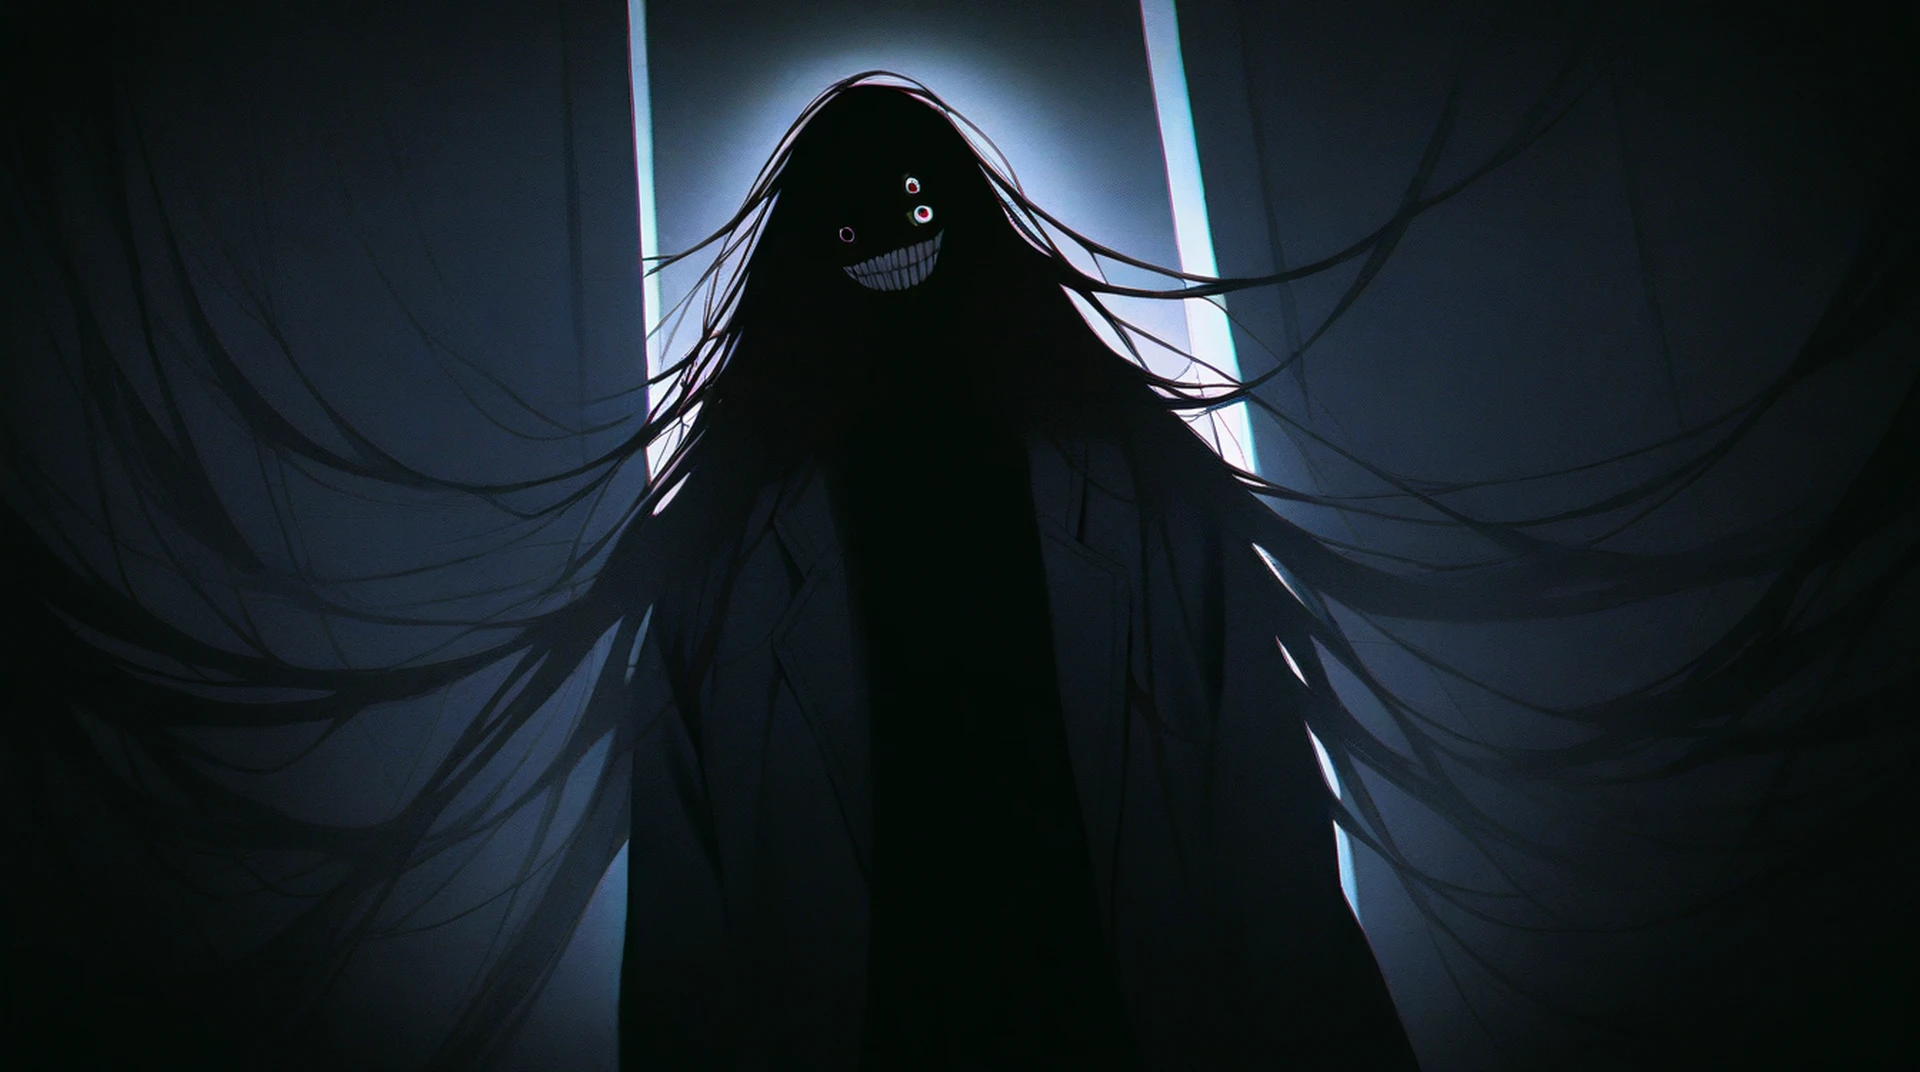
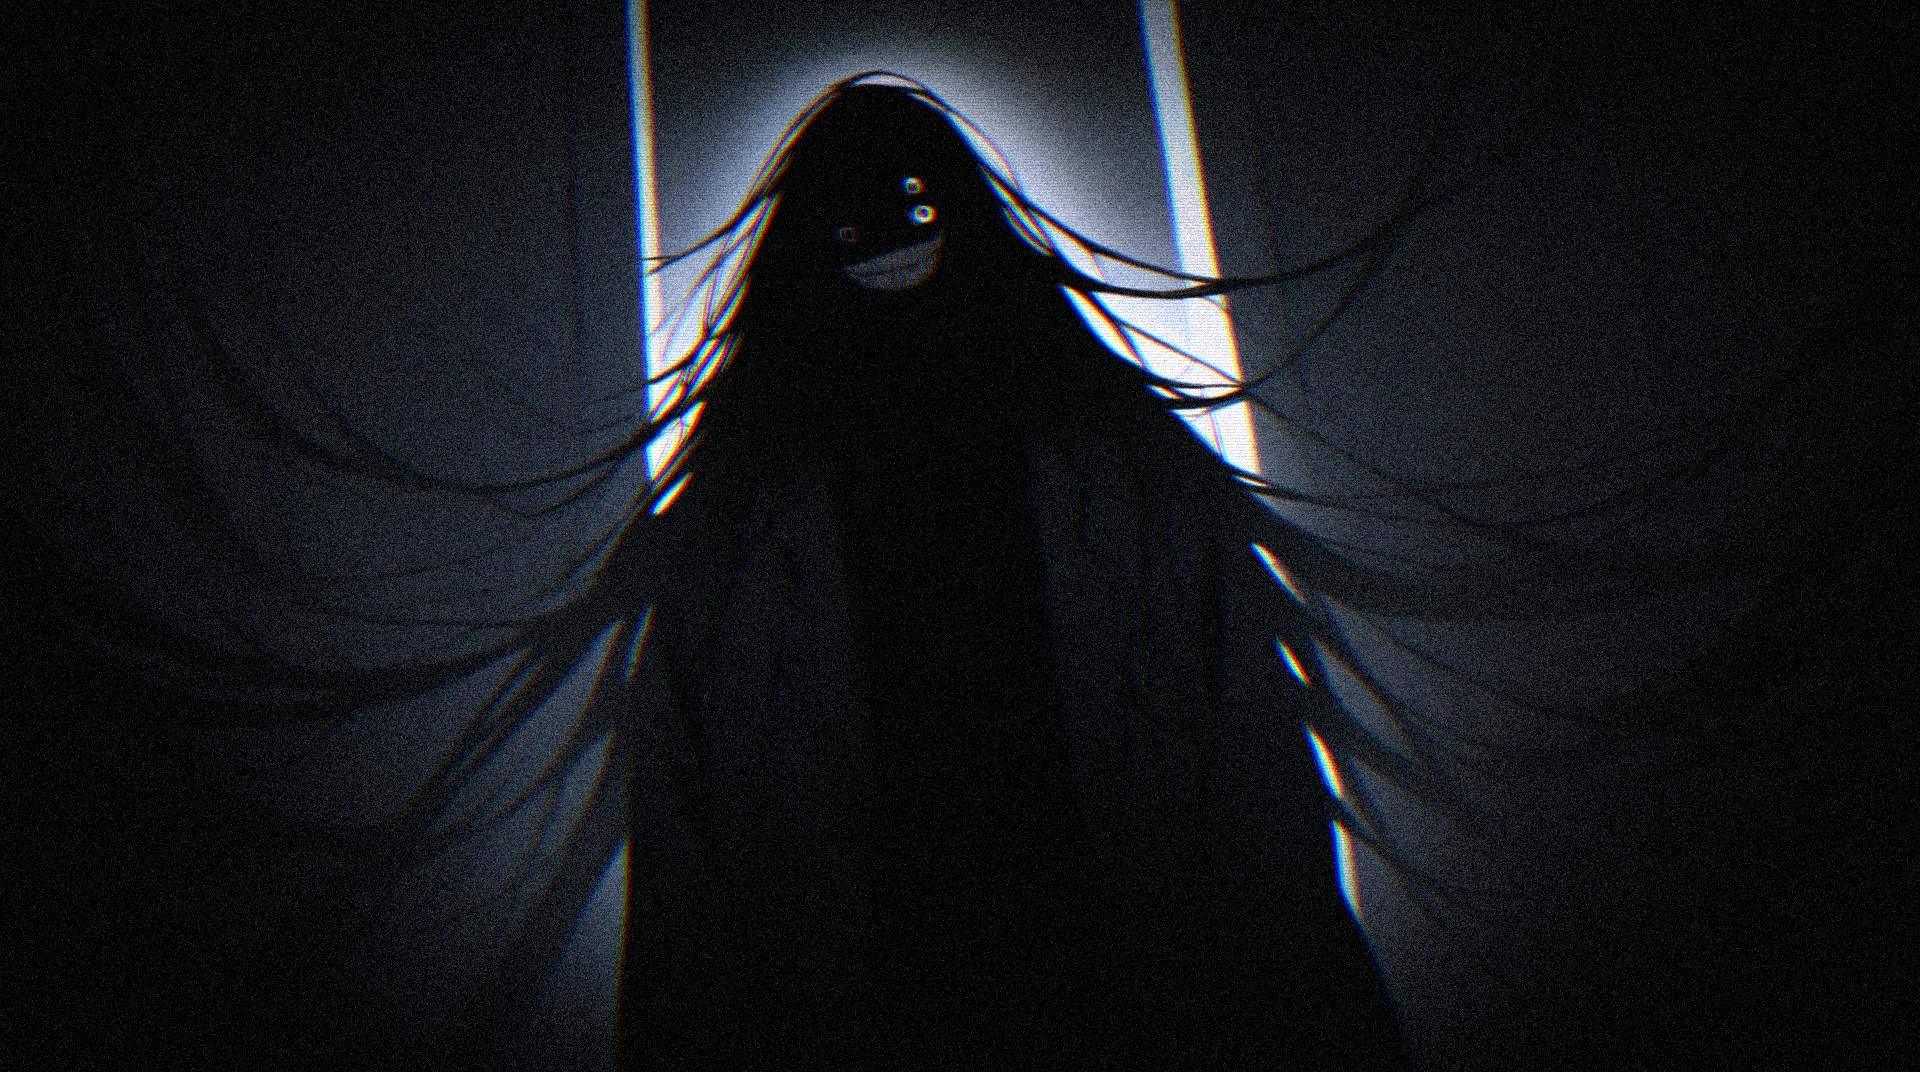
2.3.0: player-controlled turn-around scare, teacher horror CGs, analog-horror look

Changed region(s): [[0.0312, 0.0, 0.9062, 1.0]]

diff --git a/src/meta.js b/src/meta.js
@@ -150,6 +150,58 @@ export class Meta {
     el.remove();
   }
 
+  /**
+   * Turn around. The player controls the camera (drag / arrows / wheel) and has to choose to look behind them.
+   * The longer they wait, the faster the heartbeat. Once they turn, there is a short, terrible pause, then the scare.
+   * With "graphic horror off" it skips straight to a blackout.
+   */
+  async lookBehind(frontId, backId) {
+    const audio = this.game.audio;
+    if (!this.goreOn) { audio.sfx("static"); await this.blackout(500); return; }
+    const root = document.createElement("div");
+    root.className = "behind";
+    root.innerHTML = `<div class="behind-strip"><div style="background-image:url(assets/cg/${frontId}.webp)"></div><div style="background-image:url(assets/cg/${backId}.webp)"></div></div><div class="behind-hint">‹ drag, or use ← → ›</div>`;
+    this.fx.appendChild(root);
+    const strip = root.firstElementChild, hint = root.lastElementChild;
+    // The player turns the camera themselves: drag, arrow keys / A D, or the wheel. Nothing turns it for them.
+    let pan = 0, vel = 0, dragging = false, lastX = 0, still = 0;
+    const keys = new Set();
+    const down = e => { dragging = true; lastX = e.clientX; };
+    const up = () => { dragging = false; };
+    const move = e => { if (!dragging) return; pan = Math.max(0, Math.min(1, pan - (e.clientX - lastX) / innerWidth * 1.4)); lastX = e.clientX; };
+    const wheel = e => { pan = Math.max(0, Math.min(1, pan + e.deltaY / 1400)); };
+    const kd = e => keys.add(e.key.toLowerCase()), ku = e => keys.delete(e.key.toLowerCase());
+    root.addEventListener("pointerdown", down); addEventListener("pointerup", up); addEventListener("pointermove", move);
+    addEventListener("wheel", wheel, { passive: true }); addEventListener("keydown", kd); addEventListener("keyup", ku);
+    const t0 = performance.now(); let beat = 0, last = t0;
+    await new Promise(resolve => {
+      const tick = now => {
+        const dt = Math.min(50, now - last); last = now;
+        const t = now - t0, dread = Math.min(1, t / 40000);
+        if (keys.has("arrowright") || keys.has("d")) pan = Math.min(1, pan + dt / 1800);
+        if (keys.has("arrowleft") || keys.has("a")) pan = Math.max(0, pan - dt / 1800);
+        strip.style.transform = `translateX(${-pan * 50}%)`;
+        hint.style.opacity = String(Math.max(0, 0.55 - pan * 1.4) * (0.4 + 0.6 * Math.abs(Math.sin(t / 900))));
+        root.style.filter = `brightness(${1 - 0.3 * pan}) contrast(${1 + 0.4 * dread})`;
+        if (t - beat > 1400 - 800 * Math.max(dread, pan * 0.8)) { beat = t; audio.sfx("heartbeat"); if (pan > 0.4) this.shake(110); }
+        // fully turned: a held, silent beat, then it's there
+        if (pan > 0.97) { still += dt; if (still > 1100) return resolve(); } else still = 0;
+        requestAnimationFrame(tick);
+      };
+      requestAnimationFrame(tick);
+    });
+    root.removeEventListener("pointerdown", down); removeEventListener("pointerup", up); removeEventListener("pointermove", move);
+    removeEventListener("wheel", wheel); removeEventListener("keydown", kd); removeEventListener("keyup", ku);
+    audio.sfx("scare");
+    root.classList.add("slam");
+    this.shake(1500);
+    if (this.native) this.native.shake(1200, 18).catch(() => {});
+    await sleep(1600);
+    root.classList.add("out");
+    await sleep(200);
+    root.remove();
+  }
+
   /** An image for a few frames. You're not sure you saw it. The script pretends you didn't. */
   async subliminal(id, ms = 90) {
     if (this._graphic(id) && !this.goreOn) return;

diff --git a/styles/game.css b/styles/game.css
@@ -1251,3 +1251,13 @@ body.inverted, body.inverted * { cursor: none !important; }
 
 /* The room, changed while you were gone. */
 .bg-img.haunted { transition: opacity 2.4s ease; }
+
+/* 2.3: turn around (meta.lookBehind). A 200%-wide strip: the room in front, and what is behind you. */
+.behind { position: absolute; inset: 0; z-index: 59; overflow: hidden; background: #000; cursor: grab; touch-action: none; user-select: none; }
+.behind-strip { position: absolute; inset: 0 auto 0 0; width: 200%; display: flex; will-change: transform; }
+.behind-strip > div { width: 50%; height: 100%; background: center / cover no-repeat; }
+.behind-hint { position: absolute; right: 2.2%; top: 50%; translate: 0 -50%; font-size: 1.1rem; letter-spacing: .15em; color: #fff; opacity: .3; pointer-events: none; text-shadow: 0 0 18px #000; }
+.behind.slam .behind-strip > div:last-child { animation: behindSlam .16s cubic-bezier(.2,1.8,.4,1) both; }
+.behind.slam .behind-hint { display: none; }
+.behind.out { animation: fadeout .2s ease both; }
+@keyframes behindSlam { from { transform: scale(1.5); filter: brightness(3) contrast(1.6); } to { transform: scale(1.06); filter: brightness(1) contrast(1.3); } }

diff --git a/src/story_act3.js b/src/story_act3.js
@@ -616,6 +616,7 @@ export const ACT3 = {
   a3_wed_night: [
     clear,
     "| That night the group chat is quiet for a long time.",
+    { t: "js", run: g => g.meta.subliminal("h_okada_reach", 80) },
     when((v, P) => P.restoredK,
       [phone("Summer Squad ☀", [
         ["hina", "is everyone awake"],
@@ -652,6 +653,7 @@ export const ACT3 = {
      ===================================================================== */
   a3_thu: [
     clear,
+    { t: "js", run: g => g.meta.subliminal("h_kanda_board", 80) },
     day("Thursday", "Engagement Hearing.", true),
     set("sabotage", true),
     bg("classroom"),

diff --git a/src/story.js b/src/story.js
@@ -2167,6 +2167,11 @@ export const SCRIPT = {
     music("hum"),
     cg("k_photo"),
     "| The save opens on a photo. The last one K took. Everyone's waving. In the window behind them, someone is holding the camera.",
+    music("heartbeat"),
+    "| ...The window is a mirror. Something in the reflection is standing right behind you.",
+    { t: "js", run: g => g.meta.lookBehind("h_behind_front", "h_behind_back") },
+    fx("glitch", 900),
+    music("hum"),
     cg(null),
     show("k", "neutral", "center"),
     say("k", null, "day 7 again.", { speed: 18 }),
